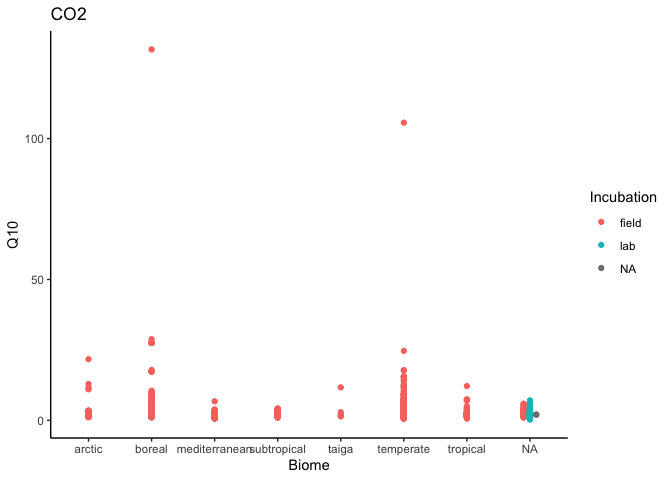
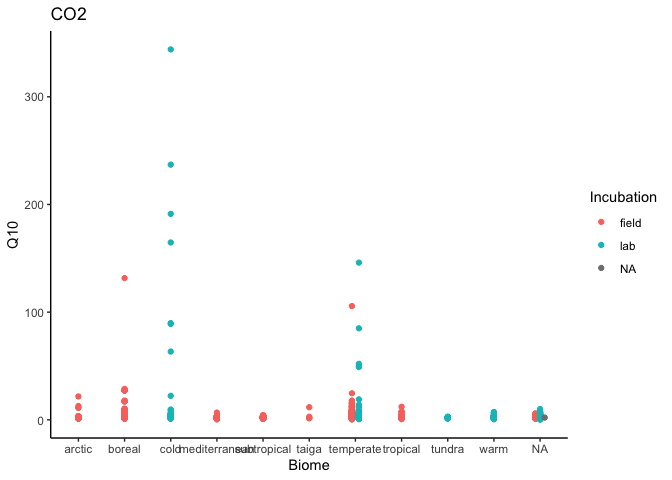
include heterotrophic-only comparison

diff --git a/reports/2-data_analysis.md b/reports/2-data_analysis.md
@@ -12,7 +12,7 @@ How many datapoints?
 | Species | field | lab |  NA |
 |:--------|------:|----:|----:|
 | CH4     |    67 | 136 |  21 |
-| CO2     |  4942 |  76 |   2 |
+| CO2     |  4973 | 799 |   1 |
 | N2O     |    52 |  98 |   3 |
 | NA      |    NA |  44 |  NA |
 
@@ -21,7 +21,7 @@ How many studies?
 | Species | field | lab |  NA |
 |:--------|------:|----:|----:|
 | CH4     |    33 |  23 |  11 |
-| CO2     |   598 |  19 |   2 |
+| CO2     |   600 |  86 |   1 |
 | N2O     |    22 |  23 |   2 |
 | NA      |    NA |  16 |  NA |
 
@@ -35,11 +35,11 @@ CO2 - by temperature
 
     #> # A tibble: 3 × 7
     #> # Groups:   Temp_range [3]
-    #>   Temp_range term          df sumsq meansq statistic p_value
-    #>   <fct>      <chr>      <dbl> <dbl>  <dbl>     <dbl>   <dbl>
-    #> 1 5_15       Incubation     1  3.91   3.91     2.40  0.121  
-    #> 2 15_25      Incubation     1  1.71   1.71     0.720 0.399  
-    #> 3 > 25       Incubation     1 30.2   30.2     11.8   0.00178
+    #>   Temp_range term          df sumsq meansq statistic  p_value
+    #>   <fct>      <chr>      <dbl> <dbl>  <dbl>     <dbl>    <dbl>
+    #> 1 5_15       Incubation     1 20.6   20.6      10.4  0.00129 
+    #> 2 15_25      Incubation     1  7.81   7.81      6.33 0.0128  
+    #> 3 > 25       Incubation     1 18.8   18.8      14.3  0.000229
 
 paired (field AND lab) results were not available for &lt; 0 C and 0-5
 C.
@@ -51,17 +51,17 @@ CO2 - across all temperatures
 <!-- -->
 
     #> # A tibble: 1 × 6
-    #>   term          df sumsq meansq statistic p_value
-    #>   <chr>      <dbl> <dbl>  <dbl>     <dbl>   <dbl>
-    #> 1 Incubation     1  91.1   91.1      3.48  0.0625
+    #>   term          df sumsq meansq statistic  p_value
+    #>   <chr>      <dbl> <dbl>  <dbl>     <dbl>    <dbl>
+    #> 1 Incubation     1 1683.  1683.      14.9 0.000116
 
 -   LME
 
 <!-- -->
 
     #>             numDF denDF  F-value p-value
-    #> (Intercept)     1  1480 3.374753  0.0664
-    #> Incubation      1  1480 1.881949  0.1703
+    #> (Intercept)     1  1827 2.203403  0.1379
+    #> Incubation      1  1827 5.436477  0.0198
 
 N2O - across all temperatures
 
@@ -112,6 +112,36 @@ CH4 - across all temperatures
     #> $CH4_incubation
 
 ![](2-data_analysis_files/figure-gfm/unnamed-chunk-11-7.png)<!-- -->
+
+### Respiration: autotrophic/heterotrophic
+
+Most field studies include auto + heterotrophic respiration
+
+Some SRDB studies (field) were heterotrophic only
+
+    #> # A tibble: 9 × 3
+    #> # Groups:   Temp_range [6]
+    #>   Temp_range Incubation     n
+    #>   <fct>      <chr>      <int>
+    #> 1 < 0        lab            8
+    #> 2 0_5        lab           10
+    #> 3 5_15       field         76
+    #> 4 5_15       lab          155
+    #> 5 15_25      field          1
+    #> 6 15_25      lab          150
+    #> 7 > 25       lab          175
+    #> 8 <NA>       field        201
+    #> 9 <NA>       lab          589
+
+![](2-data_analysis_files/figure-gfm/unnamed-chunk-13-1.png)<!-- -->
+
+running ANOVA on 5-15 C heterotrophic respiration only
+
+    #>              Df Sum Sq Mean Sq F value Pr(>F)  
+    #> Incubation    1    180  180.24   2.736 0.0995 .
+    #> Residuals   229  15085   65.87                 
+    #> ---
+    #> Signif. codes:  0 '***' 0.001 '**' 0.01 '*' 0.05 '.' 0.1 ' ' 1
 
 ## Fitting Q10 functions
 
@@ -198,12 +228,12 @@ Click to open table
 
     #> $q10_calculated_functions
 
-![](2-data_analysis_files/figure-gfm/unnamed-chunk-13-1.png)<!-- -->
+![](2-data_analysis_files/figure-gfm/unnamed-chunk-16-1.png)<!-- -->
 
     #> 
     #> $calculated_q10_graph
 
-![](2-data_analysis_files/figure-gfm/unnamed-chunk-13-2.png)<!-- -->
+![](2-data_analysis_files/figure-gfm/unnamed-chunk-16-2.png)<!-- -->
 
 ------------------------------------------------------------------------
 
@@ -212,7 +242,7 @@ Click to open table
 Session Info
 </summary>
 
-Date run: 2022-01-24
+Date run: 2022-02-08
 
     #> R version 4.1.1 (2021-08-10)
     #> Platform: x86_64-apple-darwin17.0 (64-bit)
@@ -229,42 +259,35 @@ Date run: 2022-01-24
     #> [1] stats     graphics  grDevices utils     datasets  methods   base     
     #> 
     #> other attached packages:
-    #>  [1] data.table_1.14.2       sidb_1.0.0              sf_1.0-5               
-    #>  [4] rnaturalearthdata_0.1.0 rnaturalearth_0.1.0     nlme_3.1-153           
-    #>  [7] drake_7.13.2            forcats_0.5.1           stringr_1.4.0          
-    #> [10] dplyr_1.0.7             purrr_0.3.4             readr_2.0.2            
-    #> [13] tidyr_1.1.4             tibble_3.1.5            ggplot2_3.3.5          
-    #> [16] tidyverse_1.3.1        
+    #>  [1] magrittr_2.0.1          googlesheets4_1.0.0     data.table_1.14.2      
+    #>  [4] sidb_1.0.0              sf_1.0-5                rnaturalearthdata_0.1.0
+    #>  [7] rnaturalearth_0.1.0     nlme_3.1-153            drake_7.13.2           
+    #> [10] forcats_0.5.1           stringr_1.4.0           dplyr_1.0.7            
+    #> [13] purrr_0.3.4             readr_2.0.2             tidyr_1.1.4            
+    #> [16] tibble_3.1.5            ggplot2_3.3.5           tidyverse_1.3.1        
     #> 
     #> loaded via a namespace (and not attached):
-    #>  [1] fs_1.5.0            lubridate_1.8.0     filelock_1.0.2     
-    #>  [4] progress_1.2.2      httr_1.4.2          tools_4.1.1        
-    #>  [7] backports_1.2.1     utf8_1.2.2          R6_2.5.1           
-    #> [10] KernSmooth_2.23-20  rgeos_0.5-9         DBI_1.1.1          
-    #> [13] colorspace_2.0-2    measurements_1.4.0  withr_2.4.2        
-    #> [16] sp_1.4-5            tidyselect_1.1.1    prettyunits_1.1.1  
-    #> [19] compiler_4.1.1      FME_1.3.6.1         cli_3.0.1          
-    #> [22] rvest_1.0.1         xml2_1.3.2          labeling_0.4.2     
-    #> [25] scales_1.1.1        classInt_0.4-3      proxy_0.4-26       
-    #> [28] digest_0.6.27       txtq_0.2.4          minqa_1.2.4        
-    #> [31] rmarkdown_2.11      pkgconfig_2.0.3     htmltools_0.5.2    
-    #> [34] highr_0.9           dbplyr_2.1.1        fastmap_1.1.0      
-    #> [37] rlang_0.4.11        readxl_1.3.1        rstudioapi_0.13    
-    #> [40] generics_0.1.0      farver_2.1.0        jsonlite_1.7.2     
-    #> [43] googlesheets4_1.0.0 magrittr_2.0.1      s2_1.0.7           
-    #> [46] Rcpp_1.0.7          munsell_0.5.0       fansi_0.5.0        
-    #> [49] lifecycle_1.0.0     stringi_1.7.5       yaml_2.2.1         
-    #> [52] MASS_7.3-54         storr_1.2.5         rootSolve_1.8.2.2  
-    #> [55] grid_4.1.1          parallel_4.1.1      crayon_1.4.1       
-    #> [58] lattice_0.20-44     haven_2.4.3         hms_1.1.0          
-    #> [61] knitr_1.36          pillar_1.6.2        igraph_1.2.6       
-    #> [64] PNWColors_0.1.0     base64url_1.4       wk_0.6.0           
-    #> [67] reprex_2.0.1        glue_1.4.2          evaluate_0.14      
-    #> [70] modelr_0.1.8        deSolve_1.28        vctrs_0.3.8        
-    #> [73] tzdb_0.1.2          cellranger_1.1.0    gtable_0.3.0       
-    #> [76] assertthat_0.2.1    xfun_0.25           broom_0.7.10       
-    #> [79] e1071_1.7-8         coda_0.19-4         viridisLite_0.4.0  
-    #> [82] googledrive_2.0.0   class_7.3-19        gargle_1.2.0       
-    #> [85] minpack.lm_1.2-1    units_0.7-2         ellipsis_0.3.2
+    #>  [1] fs_1.5.0           lubridate_1.8.0    filelock_1.0.2     progress_1.2.2    
+    #>  [5] httr_1.4.2         tools_4.1.1        backports_1.2.1    utf8_1.2.2        
+    #>  [9] R6_2.5.1           KernSmooth_2.23-20 DBI_1.1.1          colorspace_2.0-2  
+    #> [13] measurements_1.4.0 withr_2.4.2        sp_1.4-5           tidyselect_1.1.1  
+    #> [17] prettyunits_1.1.1  curl_4.3.2         compiler_4.1.1     FME_1.3.6.1       
+    #> [21] cli_3.0.1          rvest_1.0.1        xml2_1.3.2         labeling_0.4.2    
+    #> [25] scales_1.1.1       classInt_0.4-3     proxy_0.4-26       askpass_1.1       
+    #> [29] rappdirs_0.3.3     digest_0.6.27      txtq_0.2.4         minqa_1.2.4       
+    #> [33] rmarkdown_2.11     htmltools_0.5.2    pkgconfig_2.0.3    highr_0.9         
+    #> [37] fastmap_1.1.0      dbplyr_2.1.1       rlang_0.4.11       readxl_1.3.1      
+    #> [41] rstudioapi_0.13    farver_2.1.0       generics_0.1.0     jsonlite_1.7.2    
+    #> [45] s2_1.0.7           Rcpp_1.0.7         munsell_0.5.0      fansi_0.5.0       
+    #> [49] lifecycle_1.0.0    stringi_1.7.5      yaml_2.2.1         MASS_7.3-54       
+    #> [53] storr_1.2.5        rootSolve_1.8.2.2  grid_4.1.1         parallel_4.1.1    
+    #> [57] crayon_1.4.1       lattice_0.20-44    haven_2.4.3        hms_1.1.0         
+    #> [61] knitr_1.36         pillar_1.6.2       igraph_1.2.6       PNWColors_0.1.0   
+    #> [65] base64url_1.4      wk_0.6.0           reprex_2.0.1       glue_1.4.2        
+    #> [69] evaluate_0.14      modelr_0.1.8       deSolve_1.28       vctrs_0.3.8       
+    #> [73] tzdb_0.1.2         cellranger_1.1.0   gtable_0.3.0       openssl_1.4.4     
+    #> [77] assertthat_0.2.1   xfun_0.25          broom_0.7.10       e1071_1.7-8       
+    #> [81] coda_0.19-4        class_7.3-19       googledrive_2.0.0  gargle_1.2.0      
+    #> [85] minpack.lm_1.2-1   units_0.7-2        ellipsis_0.3.2
 
 </details>
